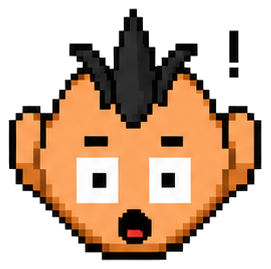
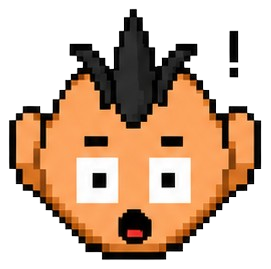
A

diff --git a/assets/css/site.css b/assets/css/site.css
@@ -251,6 +251,12 @@ header {
 }
 
 .logo {
+    /* Deliberately the OS system-UI font, not var(--font-body)/Inter - this
+       is what the logo happened to render as on a page that hadn't loaded
+       the Google Fonts link, and it read better than Inter for the
+       wordmark specifically. Kept explicit here rather than depending on
+       Inter silently failing to load. */
+    font-family: 'Segoe UI', Tahoma, Geneva, Verdana, sans-serif;
     font-size: var(--font-2xl);
     font-weight: 800;
     display: flex;
